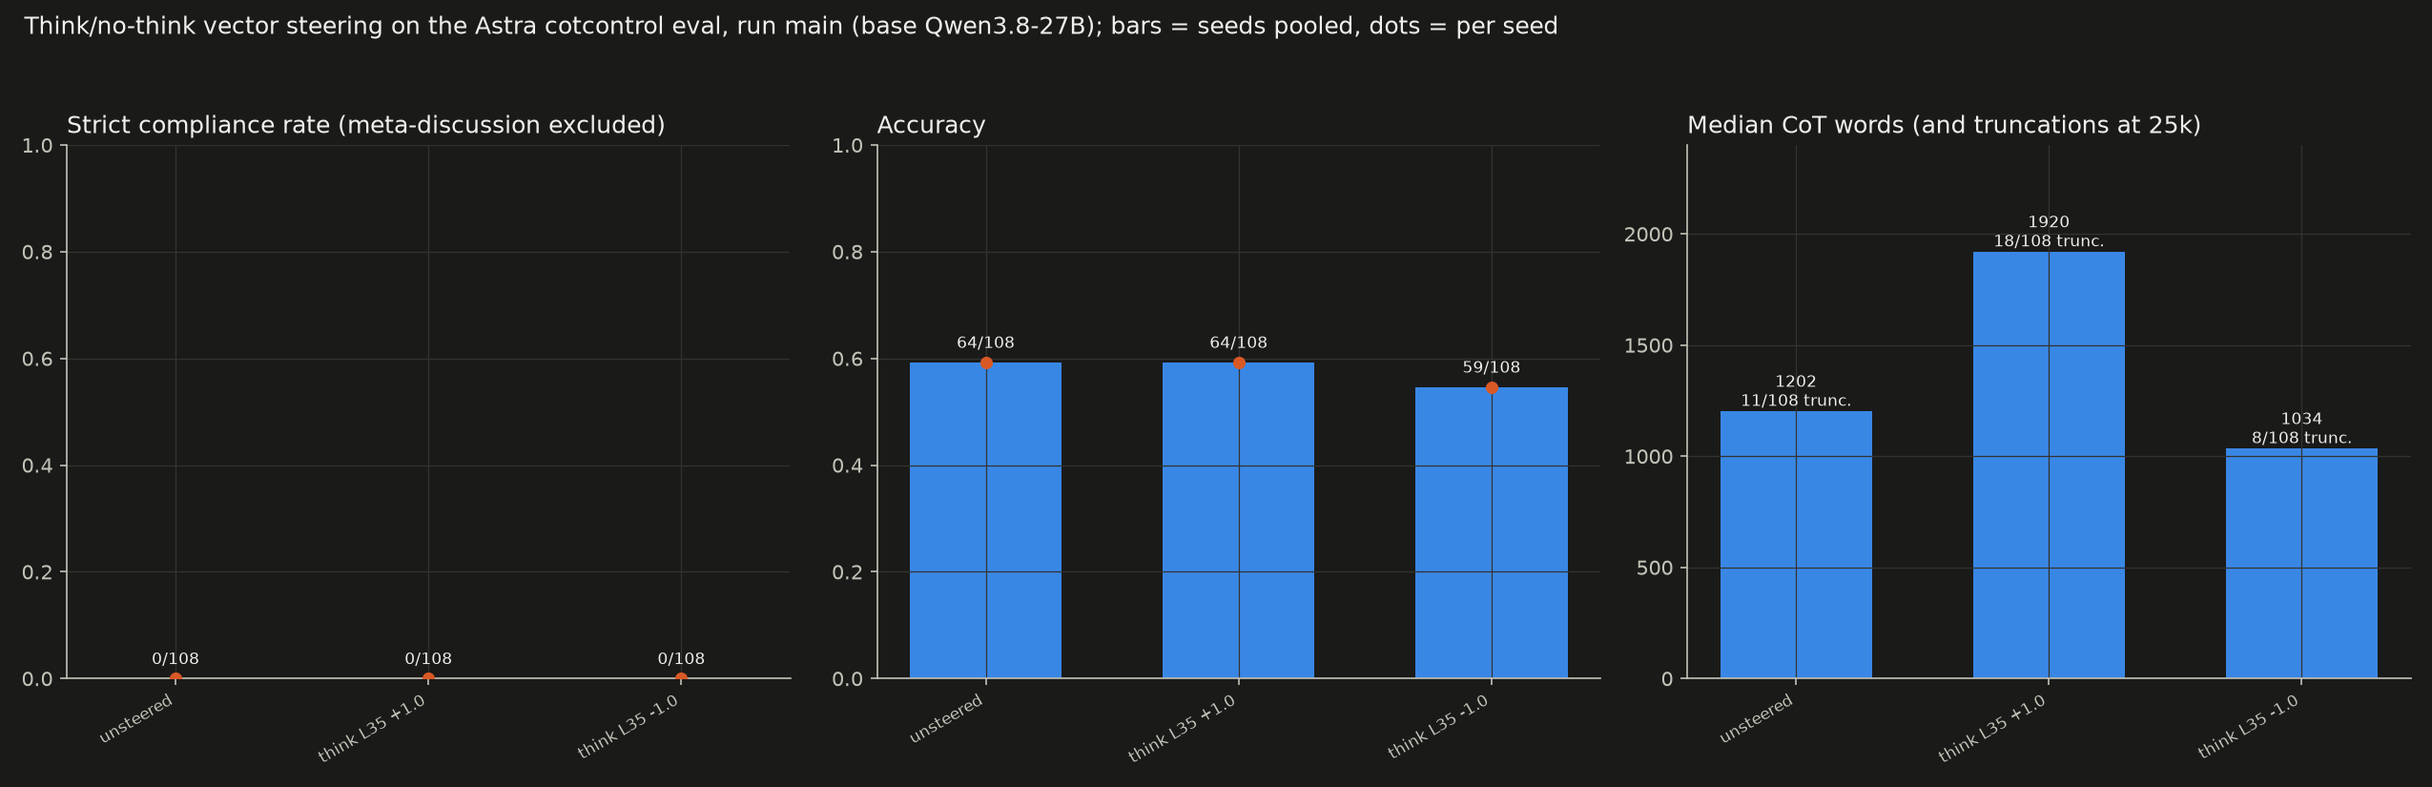
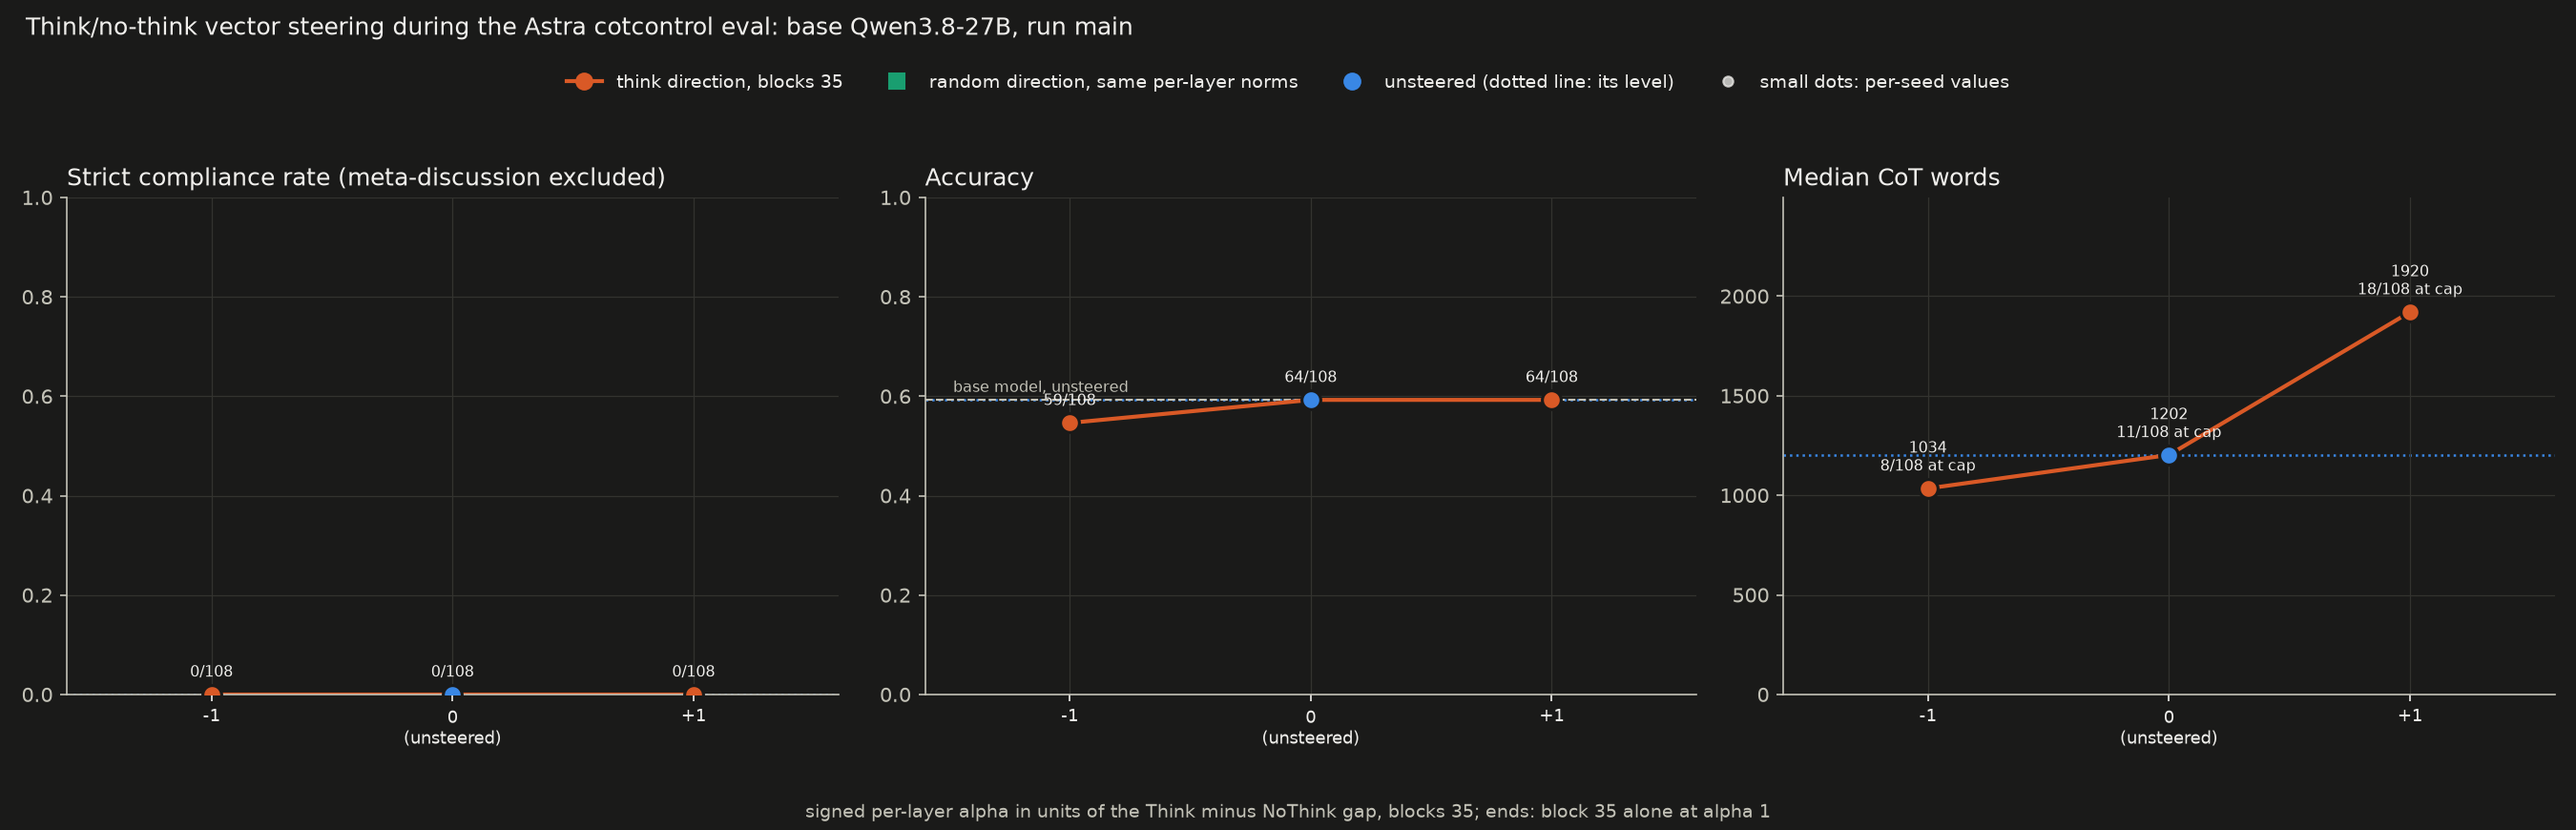
cot-control/thinkvec: headline chart as strength-response lines (think vs random vs block 35), per-seed dots

diff --git a/cot-control/thinkvec/chart_summary.py b/cot-control/thinkvec/chart_summary.py
@@ -1,11 +1,17 @@
-"""Headline chart for a summarized run: strict pass rate, accuracy and median CoT words per condition, per-seed points.
+"""Headline chart for a summarized run: strict compliance rate, accuracy and median CoT words against steering strength.
 
-    python chart_summary.py RUN_DIR OUT_PNG [COND ...]
+    python chart_summary.py RUN_DIR OUT_PNG
+
+The x axis is the signed per-layer alpha of the main layer set (the one with most conditions; 0 = unsteered). The think
+direction is a line with filled circles (seeds pooled) and small per-seed dots; the matched-norm random direction is
+squares at its alphas; other layer sets (e.g. block 35 alone) sit at the two ends as diamonds. Condition names follow
+steer.py: [org_](think|rand)_<layers>_(p|m)<alpha>[_s<seed>].
 """
 from __future__ import annotations
 
-import json
+import re
 import sys
+from collections import Counter
 from pathlib import Path
 
 import matplotlib
@@ -13,8 +19,9 @@ import matplotlib.pyplot as plt
 import pandas as pd
 
 matplotlib.use("Agg")
-SURFACE, TEXT, MUTED, BAR, DOT = "#1a1a19", "#f0efec", "#c3c2b7", "#3987e5", "#d95926"
-LABEL = {"org_unsteered": "unsteered", "unsteered": "unsteered"}
+SURFACE, TEXT, MUTED, GRID = "#1a1a19", "#f0efec", "#c3c2b7", "#33332f"
+C_THINK, C_RAND, C_OTHER, C_REF = "#d95926", "#199e70", "#d55181", "#3987e5"  # dark-mode categorical slots 2, 3, 5, 1
+BASE_ACC = 64 / 108  # base Qwen3.8-27B, unsteered, results/thinkvec/main
 
 run, out = Path(sys.argv[1]), Path(sys.argv[2])
 summary = pd.read_csv(run / "summary.csv").set_index("condition")
@@ -23,35 +30,92 @@ rec["seed"] = rec.condition.str.extract(r"_s(\d+)$")[0].fillna("0").astype(int)
 rec["condition"] = rec.condition.str.replace(r"_s\d+$", "", regex=True)
 rec["strict_nometa"] = rec.strict_nometa.fillna(False).astype(bool)
 rec["correct"] = rec.correct.fillna(False).astype(bool)
-base = next(c for c in summary.index if c.endswith("unsteered"))
-keep = set(sys.argv[3:]) or set(summary.index)
-conds = [base] + sorted((c for c in summary.index if c != base and c in keep), key=lambda c: ("_m" in c, c))
-names = [LABEL.get(c, c.replace("org_", "").replace("think_", "think ").replace("rand_", "random ").replace("_p", " +").replace("_m", " -")) for c in conds]
 per_seed = rec.groupby(["condition", "seed"]).agg(strict=("strict_nometa", "mean"), correct=("correct", "mean")).reset_index()
+
+
+def parse(c):
+    m = re.fullmatch(r"(?:org_)?(think|rand)_(L[\d-]+(?:s\d+)?)_(p|m)([\d.]+)", c)
+    return None if m is None else (m[1], m[2], (1 if m[3] == "p" else -1) * float(m[4]))
+
+
+base = next(c for c in summary.index if c.endswith("unsteered"))
+parsed = {c: parse(c) for c in summary.index if c != base}
+tags = Counter(p[1] for p in parsed.values())
+main_tag = max(tags, key=lambda t: (tags[t], len(t)))
+alphas = sorted({p[2] for p in parsed.values() if p[1] == main_tag} | {0.0})
+others = sorted({(p[1], p[2]) for p in parsed.values() if p[1] != main_tag})
+cats = [o for o in others if o[1] < 0] + alphas + [o for o in others if o[1] > 0]
+xpos = {cat: i for i, cat in enumerate(cats)}
+ticks = [f"{t.replace('L', 'block ')}\nalpha {a:+g}" if isinstance(cat, tuple) else ("0\n(unsteered)" if a == 0 else f"{a:+g}")
+         for cat in cats for (t, a) in [cat if isinstance(cat, tuple) else (None, cat)]]
+layers_text = main_tag.replace("L", "blocks ").replace("-", " to ").replace("s4", " step 4")
+
+
+def x_of(c):
+    if c == base:
+        return xpos[0.0]
+    fam, tag, a = parsed[c]
+    return xpos[a] if tag == main_tag else xpos[(tag, a)]
+
+
+def value(c, col):
+    return summary.loc[c, col] / summary.loc[c, "n"] if col in ("strict", "correct") else summary.loc[c, col]
+
+
 plt.rcParams.update({"figure.facecolor": SURFACE, "axes.facecolor": SURFACE, "axes.edgecolor": MUTED, "axes.labelcolor": TEXT,
-                     "xtick.color": MUTED, "ytick.color": MUTED, "text.color": TEXT, "axes.grid": True, "grid.color": "#33332f",
+                     "xtick.color": TEXT, "ytick.color": MUTED, "text.color": TEXT, "axes.grid": True, "grid.color": GRID,
                      "grid.linewidth": 0.6, "axes.spines.top": False, "axes.spines.right": False, "font.size": 10})
-fig, axes = plt.subplots(1, 3, figsize=(17, 5.5))
-for ax, col, title in zip(axes[:2], ["strict", "correct"], ["Strict compliance rate (meta-discussion excluded)", "Accuracy"]):
-    vals = [summary.loc[c, col] / summary.loc[c, "n"] for c in conds]
-    ax.bar(range(len(conds)), vals, color=BAR, width=0.6, linewidth=0)
-    for i, c in enumerate(conds):
-        ps = per_seed[per_seed.condition == c]
-        ax.scatter([i] * len(ps), ps[col], color=DOT, s=28, zorder=3)
-        ax.text(i, vals[i] + 0.02, f"{int(summary.loc[c, col])}/{int(summary.loc[c, 'n'])}", ha="center", va="bottom", color=TEXT, fontsize=8)
-    ax.set_ylim(0, 1.0)
+fig, axes = plt.subplots(1, 3, figsize=(18, 5.8))
+panels = [("strict", "Strict compliance rate (meta-discussion excluded)", (0, 1)), ("correct", "Accuracy", (0, 1)),
+          ("median_cot_words", "Median CoT words", None)]
+think_conds = [base] + [c for c, p in parsed.items() if p[0] == "think" and p[1] == main_tag]
+rand_conds = [c for c, p in parsed.items() if p[0] == "rand" and p[1] == main_tag]
+other_conds = [c for c, p in parsed.items() if p[1] != main_tag]
+for ax, (col, title, ylim) in zip(axes, panels):
+    ax.axhline(value(base, col), color=C_REF, linestyle=":", linewidth=1.2, zorder=1)
+    pts = sorted(((x_of(c), value(c, col), c) for c in think_conds), key=lambda t: t[0])
+    ax.plot([p[0] for p in pts], [p[1] for p in pts], color=C_THINK, linewidth=2, zorder=2)
+    for x, y, c in pts:
+        ax.scatter([x], [y], color=C_THINK if c != base else C_REF, s=90, zorder=4, edgecolors=SURFACE, linewidths=1.5)
+    for c in rand_conds:
+        ax.scatter([x_of(c) + 0.18], [value(c, col)], color=C_RAND, marker="s", s=80, zorder=4, edgecolors=SURFACE, linewidths=1.5)
+    for c in other_conds:
+        ax.scatter([x_of(c)], [value(c, col)], color=C_OTHER, marker="D", s=80, zorder=4, edgecolors=SURFACE, linewidths=1.5)
+    if col in ("strict", "correct"):
+        for c in summary.index:
+            ps = per_seed[per_seed.condition == c]
+            if len(ps) > 1:
+                color = C_RAND if c in rand_conds else C_OTHER if c in other_conds else C_THINK if c != base else C_REF
+                ax.scatter([x_of(c) + (0.18 if c in rand_conds else 0)] * len(ps), ps[col], color=color, s=34, alpha=0.75, zorder=3, linewidths=0)
+        for c in summary.index:
+            dx = 0.18 if c in rand_conds else 0
+            ax.annotate(f"{int(summary.loc[c, col])}/{int(summary.loc[c, 'n'])}", (x_of(c) + dx, value(c, col)), textcoords="offset points",
+                        xytext=(0, 9 if c not in rand_conds else -14), ha="center", fontsize=7.5, color=TEXT)
+        ax.set_ylim(*ylim)
+    else:
+        for c in summary.index:
+            dx = 0.18 if c in rand_conds else 0
+            tr, n = int(summary.loc[c, "truncated"]), int(summary.loc[c, "n"])
+            ax.annotate(f"{value(c, col):.0f}" + (f"\n{tr}/{n} at cap" if tr / n >= 0.02 else ""), (x_of(c) + dx, value(c, col)),
+                        textcoords="offset points", xytext=(0, 9 if c not in rand_conds else -16), ha="center", fontsize=7.5, color=TEXT)
+        ax.set_ylim(0, 1.3 * max(value(c, col) for c in summary.index))
+    if col == "correct":
+        ax.axhline(BASE_ACC, color=MUTED, linestyle="--", linewidth=1, zorder=1)
+        ax.annotate("base model, unsteered", (-0.5, BASE_ACC), textcoords="offset points", xytext=(2, 4), ha="left", fontsize=7.5, color=MUTED)
     ax.set_title(title, color=TEXT, loc="left")
-    ax.set_xticks(range(len(conds)), names, rotation=30, ha="right", fontsize=8)
-ax = axes[2]
-vals = [summary.loc[c, "median_cot_words"] for c in conds]
-ax.bar(range(len(conds)), vals, color=BAR, width=0.6, linewidth=0)
-for i, c in enumerate(conds):
-    ax.text(i, vals[i], f"{vals[i]:.0f}\n{int(summary.loc[c, 'truncated'])}/{int(summary.loc[c, 'n'])} trunc.", ha="center", va="bottom", color=TEXT, fontsize=8)
-ax.set_ylim(0, 1.25 * max(vals))
-ax.set_title("Median CoT words (and truncations at 25k)", color=TEXT, loc="left")
-ax.set_xticks(range(len(conds)), names, rotation=30, ha="right", fontsize=8)
-fig.suptitle(f"Think/no-think vector steering on the Astra cotcontrol eval, run {run.name} "
-             f"({'opsd-grpo organism' if base.startswith('org') else 'base Qwen3.8-27B'}); bars = seeds pooled, dots = per seed", color=TEXT, x=0.01, ha="left")
-fig.tight_layout(rect=(0, 0, 1, 0.94))
+    ax.set_xticks(range(len(cats)), ticks, fontsize=8.5)
+    ax.set_xlim(-0.6, len(cats) - 0.4)
+fig.supxlabel(f"signed per-layer alpha in units of the Think minus NoThink gap, {layers_text}; ends: block 35 alone at alpha 1", color=MUTED, fontsize=9)
+handles = [plt.Line2D([], [], color=C_THINK, marker="o", markersize=8, linewidth=2, label=f"think direction, {layers_text}"),
+           plt.Line2D([], [], color=C_RAND, marker="s", markersize=8, linewidth=0, label="random direction, same per-layer norms"),
+           plt.Line2D([], [], color=C_OTHER, marker="D", markersize=8, linewidth=0, label="think direction, other layer set"),
+           plt.Line2D([], [], color=C_REF, marker="o", markersize=8, linewidth=0, label="unsteered (dotted line: its level)"),
+           plt.Line2D([], [], color=TEXT, marker="o", markersize=5, linewidth=0, alpha=0.75, label="small dots: per-seed values")]
+if not other_conds:
+    handles.pop(2)
+fig.legend(handles=handles, loc="upper center", ncol=len(handles), frameon=False, labelcolor=TEXT, fontsize=9, bbox_to_anchor=(0.5, 0.93))
+model = "opsd-grpo organism (Qwen3.8-27B + opsd-grpo1b LoRA)" if base.startswith("org") else "base Qwen3.8-27B"
+fig.suptitle(f"Think/no-think vector steering during the Astra cotcontrol eval: {model}, run {run.name}", color=TEXT, x=0.01, ha="left")
+fig.tight_layout(rect=(0, 0.02, 1, 0.88))
 fig.savefig(out, dpi=150, facecolor=SURFACE)
 print(out)
